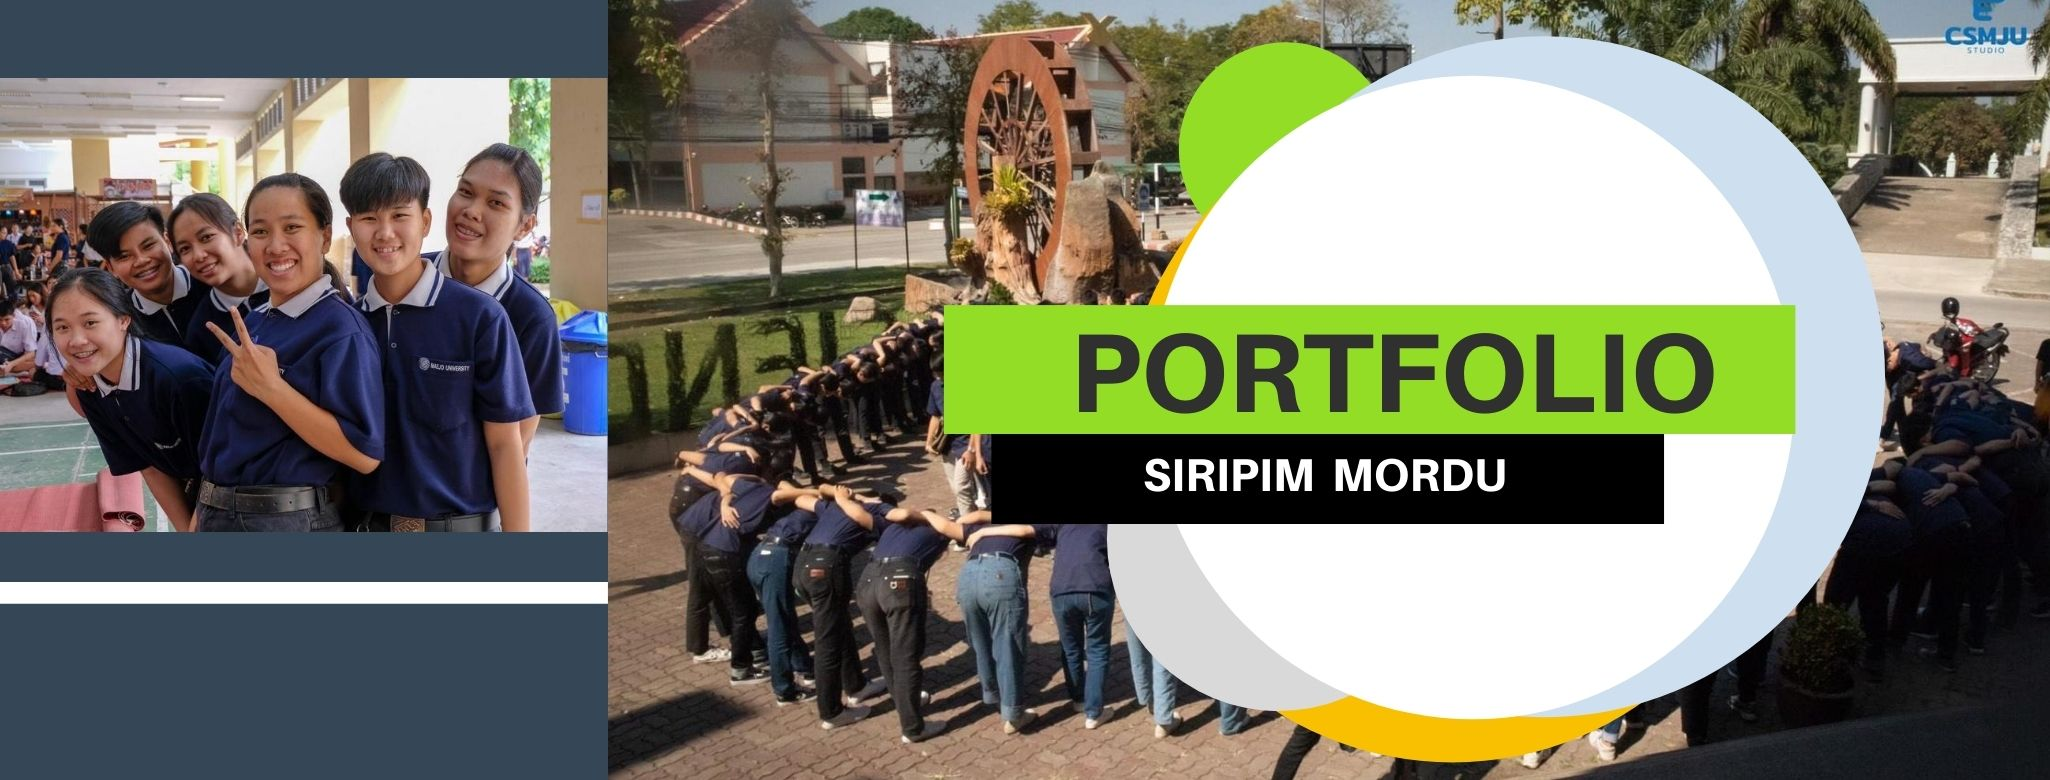
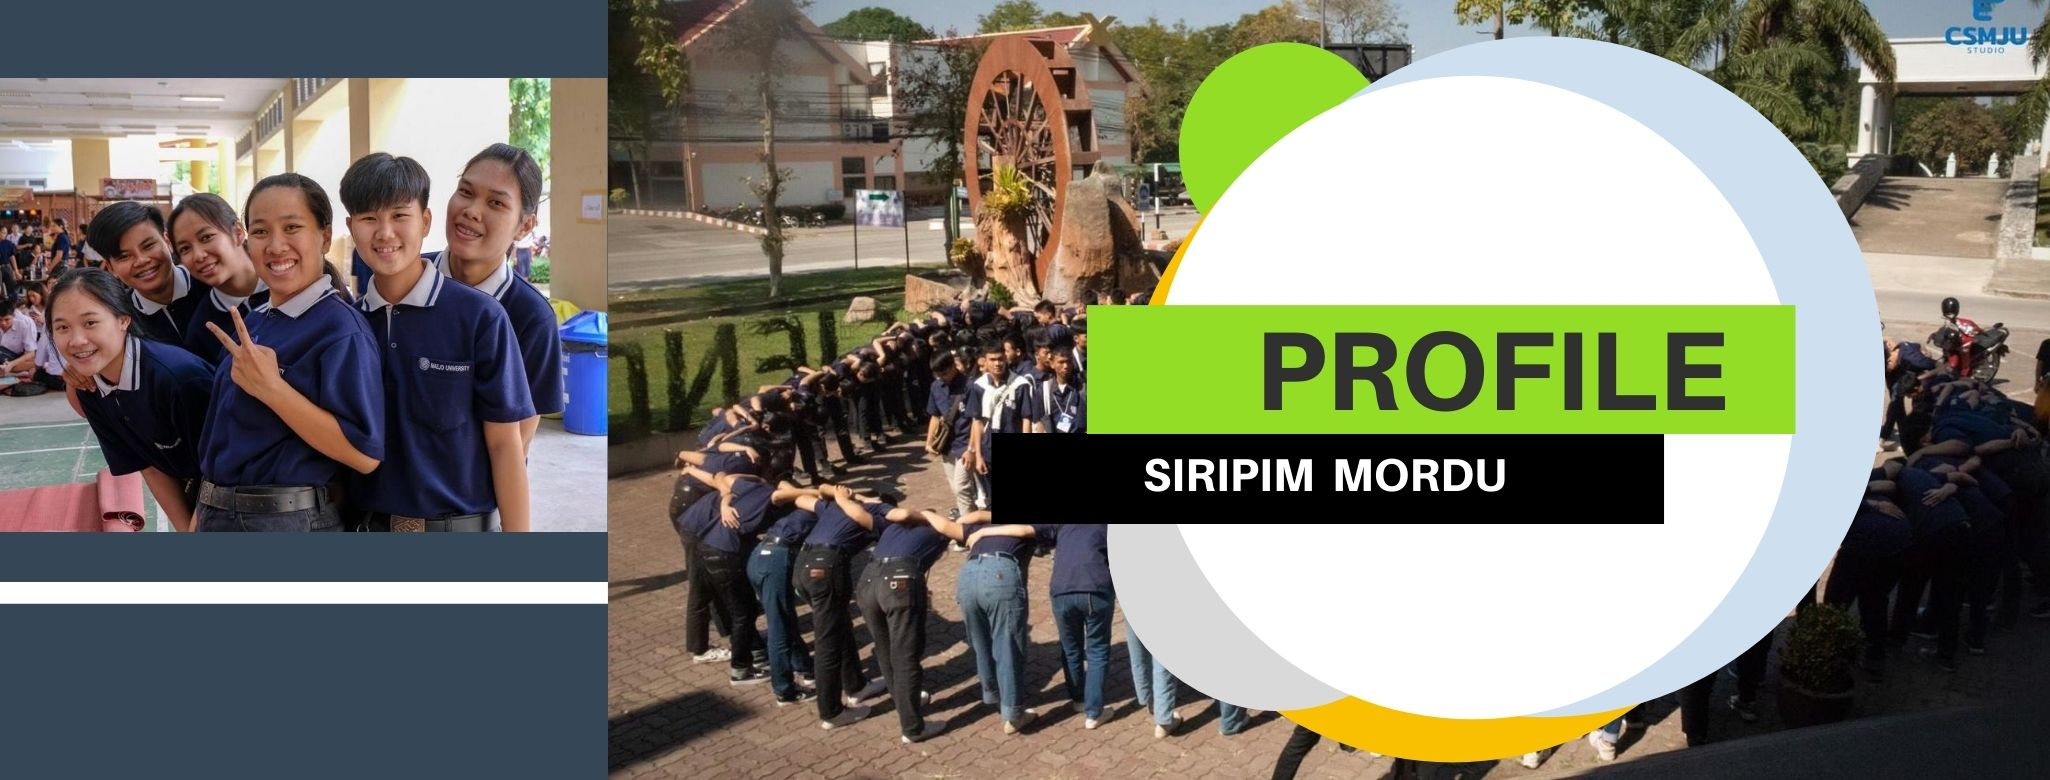
Add files via upload

Changed region(s): [[0.4371, 0.3692, 0.8429, 0.5846]]

diff --git a/bootstrap001/public/index.html b/bootstrap001/public/index.html
@@ -38,7 +38,15 @@
   </nav>
   
   <div class="starter-template" style="color: #ffca1d" style="font-family: sans-serif;">
-          <h1 style="font-weight: 700; " >Welcom To PORTFPLIO</h1><br> 
+      <h1><svg width="1em" height="1em" viewBox="0 0 16 16" class="bi bi-file-earmark-text" fill="currentColor" xmlns="http://www.w3.org/2000/svg">
+        <path d="M4 1h5v1H4a1 1 0 0 0-1 1v10a1 1 0 0 0 1 1h8a1 1 0 0 0 1-1V6h1v7a2 2 0 0 1-2 2H4a2 2 0 0 1-2-2V3a2 2 0 0 1 2-2z"/>
+        <path d="M9 4.5V1l5 5h-3.5A1.5 1.5 0 0 1 9 4.5z"/>
+        <path fill-rule="evenodd" d="M5 11.5a.5.5 0 0 1 .5-.5h2a.5.5 0 0 1 0 1h-2a.5.5 0 0 1-.5-.5zm0-2a.5.5 0 0 1 .5-.5h5a.5.5 0 0 1 0 1h-5a.5.5 0 0 1-.5-.5zm0-2a.5.5 0 0 1 .5-.5h5a.5.5 0 0 1 0 1h-5a.5.5 0 0 1-.5-.5z"/>
+      </svg><svg width="1em" height="1em" viewBox="0 0 16 16" class="bi bi-eyeglasses" fill="currentColor" xmlns="http://www.w3.org/2000/svg">
+        <path fill-rule="evenodd" d="M4 10a2 2 0 1 0 0-4 2 2 0 0 0 0 4zm0 1a3 3 0 1 0 0-6 3 3 0 0 0 0 6zm8-1a2 2 0 1 0 0-4 2 2 0 0 0 0 4zm0 1a3 3 0 1 0 0-6 3 3 0 0 0 0 6z"/>
+        <path fill-rule="evenodd" d="M8 7a1 1 0 0 0-1 1H6a2 2 0 1 1 4 0H9a1 1 0 0 0-1-1zM0 8a.5.5 0 0 1 .5-.5h1v1h-1A.5.5 0 0 1 0 8zm15.5.5h-1v-1h1a.5.5 0 0 1 0 1z"/>
+      </svg></h1>
+          <h1 style="font-weight: 700; " >Welcom To PROFILE</h1><br> 
           <p class="lead">This website is a collection site and suggest a profile of Ms.Siripim Mordu.<br> Students in computer science Maejo University, Chiang Mai.</p>
             <div id="carouselExampleControls" class="carousel slide" data-ride="carousel">
               <div class="carousel-inner">
@@ -93,7 +101,7 @@ crossorigin="anonymous"></script>
       <hr class="featurette-divider">
       <div class="row featurette">
         <div class="col-md-7">
-            <h1 class="featurette-heading" style="color: #ffd000;" style="font-family: Verdana, Geneva, Tahoma, sans-serif;"><svg width="1em" height="1em" viewBox="0 0 16 16" class="bi bi-person-circle" fill="currentColor" xmlns="http://www.w3.org/2000/svg">
+            <h1 class="featurette-heading" style="color: #ffca1d;" style="font-family: Verdana, Geneva, Tahoma, sans-serif;"><svg width="1em" height="1em" viewBox="0 0 16 16" class="bi bi-person-circle" fill="currentColor" xmlns="http://www.w3.org/2000/svg">
               <path d="M13.468 12.37C12.758 11.226 11.195 10 8 10s-4.757 1.225-5.468 2.37A6.987 6.987 0 0 0 8 15a6.987 6.987 0 0 0 5.468-2.63z"/>
               <path fill-rule="evenodd" d="M8 9a3 3 0 1 0 0-6 3 3 0 0 0 0 6z"/>
               <path fill-rule="evenodd" d="M8 1a7 7 0 1 0 0 14A7 7 0 0 0 8 1zM0 8a8 8 0 1 1 16 0A8 8 0 0 1 0 8z"/>
@@ -155,7 +163,7 @@ crossorigin="anonymous"></script>
 
 <div class="row featurette">
   <div class="col-md-7 order-md-2">
-    <h1 class="featurette-heading" style="color: #ffd000;" style="font-family: Verdana, Geneva, Tahoma, sans-serif;"><svg width="1em" height="1em" viewBox="0 0 16 16" class="bi bi-building" fill="currentColor" xmlns="http://www.w3.org/2000/svg">
+    <h1 class="featurette-heading" style="color: #ffca1d;" style="font-family: Verdana, Geneva, Tahoma, sans-serif;"><svg width="1em" height="1em" viewBox="0 0 16 16" class="bi bi-building" fill="currentColor" xmlns="http://www.w3.org/2000/svg">
       <path fill-rule="evenodd" d="M14.763.075A.5.5 0 0 1 15 .5v15a.5.5 0 0 1-.5.5h-3a.5.5 0 0 1-.5-.5V14h-1v1.5a.5.5 0 0 1-.5.5h-9a.5.5 0 0 1-.5-.5V10a.5.5 0 0 1 .342-.474L6 7.64V4.5a.5.5 0 0 1 .276-.447l8-4a.5.5 0 0 1 .487.022zM6 8.694L1 10.36V15h5V8.694zM7 15h2v-1.5a.5.5 0 0 1 .5-.5h2a.5.5 0 0 1 .5.5V15h2V1.309l-7 3.5V15z"/>
       <path d="M2 11h1v1H2v-1zm2 0h1v1H4v-1zm-2 2h1v1H2v-1zm2 0h1v1H4v-1zm4-4h1v1H8V9zm2 0h1v1h-1V9zm-2 2h1v1H8v-1zm2 0h1v1h-1v-1zm2-2h1v1h-1V9zm0 2h1v1h-1v-1zM8 7h1v1H8V7zm2 0h1v1h-1V7zm2 0h1v1h-1V7zM8 5h1v1H8V5zm2 0h1v1h-1V5zm2 0h1v1h-1V5zm0-2h1v1h-1V3z"/>
     </svg> Education. </h1>
@@ -192,7 +200,7 @@ crossorigin="anonymous"></script>
 
 <div class="row featurette">
   <div class="col-md-7">
-    <h1 class="featurette-heading"  style="color: #ffd000;" style="font-family: Verdana, Geneva, Tahoma, sans-serif;"><svg width="1em" height="1em" viewBox="0 0 16 16" class="bi bi-window" fill="currentColor" xmlns="http://www.w3.org/2000/svg">
+    <h1 class="featurette-heading"  style="color: #ffca1d;" style="font-family: Verdana, Geneva, Tahoma, sans-serif;"><svg width="1em" height="1em" viewBox="0 0 16 16" class="bi bi-window" fill="currentColor" xmlns="http://www.w3.org/2000/svg">
       <path fill-rule="evenodd" d="M14 2H2a1 1 0 0 0-1 1v10a1 1 0 0 0 1 1h12a1 1 0 0 0 1-1V3a1 1 0 0 0-1-1zM2 1a2 2 0 0 0-2 2v10a2 2 0 0 0 2 2h12a2 2 0 0 0 2-2V3a2 2 0 0 0-2-2H2z"/>
       <path fill-rule="evenodd" d="M15 6H1V5h14v1z"/>
       <path d="M3 3.5a.5.5 0 1 1-1 0 .5.5 0 0 1 1 0zm1.5 0a.5.5 0 1 1-1 0 .5.5 0 0 1 1 0zm1.5 0a.5.5 0 1 1-1 0 .5.5 0 0 1 1 0z"/>
@@ -254,7 +262,7 @@ crossorigin="anonymous"></script>
 <!-- FOOTER -->
 <footer class="container">
 <p class="float-right"><a href="#">Back to top</a></p>
-<p>&copy; 2017-2020 Company, Inc. &middot; <a href="#">Privacy</a> &middot; <a href="#">Terms</a></p>
+<p>&copy; CONTACT &middot; <a href="#">FACEBOOK : Kha Ktarr </a> &middot; <a href="#">064-7437249</a></p>
 </footer>
 </main>
 <script src="https://code.jquery.com/jquery-3.5.1.slim.min.js" integrity="sha384-DfXdz2htPH0lsSSs5nCTpuj/zy4C+OGpamoFVy38MVBnE+IbbVYUew+OrCXaRkfj" crossorigin="anonymous"></script>
